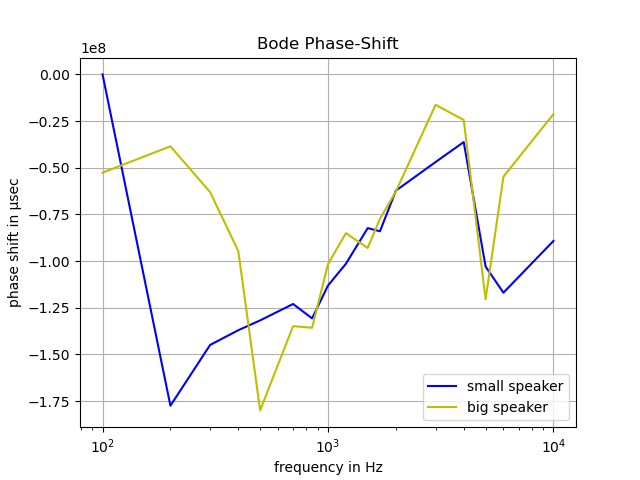
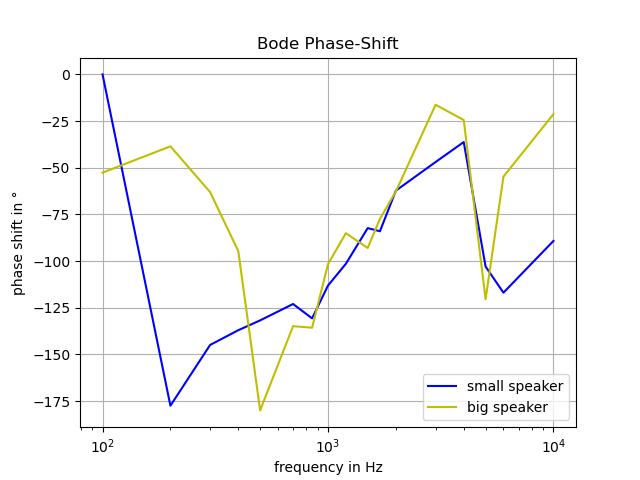
versuch 3: bode plots phase

diff --git a/Versuche/3/2.2.py b/Versuche/3/2.2.py
@@ -12,10 +12,10 @@ if __name__ == '__main__':
                        for x in range(0, len(data.amplitude_small))]
 
     # −∆t * f * 360
-    _phaseShiftLarge = [(data.phase_shift_big[x] * -1) * data.freq[x] * 360
+    _phaseShiftLarge = [(data.phase_shift_big[x]/1000000 * -1) * data.freq[x] * 360
                         for x in range(0, len(data.phase_shift_big))]
 
-    _phaseShiftSmall = [(data.phase_shift_small[x] * -1) * data.freq[x] * 360
+    _phaseShiftSmall = [(data.phase_shift_small[x]/1000000 * -1) * data.freq[x] * 360
                         for x in range(0, len(data.phase_shift_small))]
 
     plt.plot(data.freq, _amplitudeSmall, 'b', label='small speaker')
@@ -32,7 +32,7 @@ if __name__ == '__main__':
     plt.plot(data.freq, _phaseShiftSmall, 'b', label='small speaker')
     plt.plot(data.freq, _phaseShiftLarge, 'y', label='big speaker')
     plt.title('Bode Phase-Shift')
-    plt.ylabel('phase shift in µsec')
+    plt.ylabel('phase shift in °')
     plt.xlabel('frequency in Hz')
     plt.grid(True)
     plt.semilogx()
